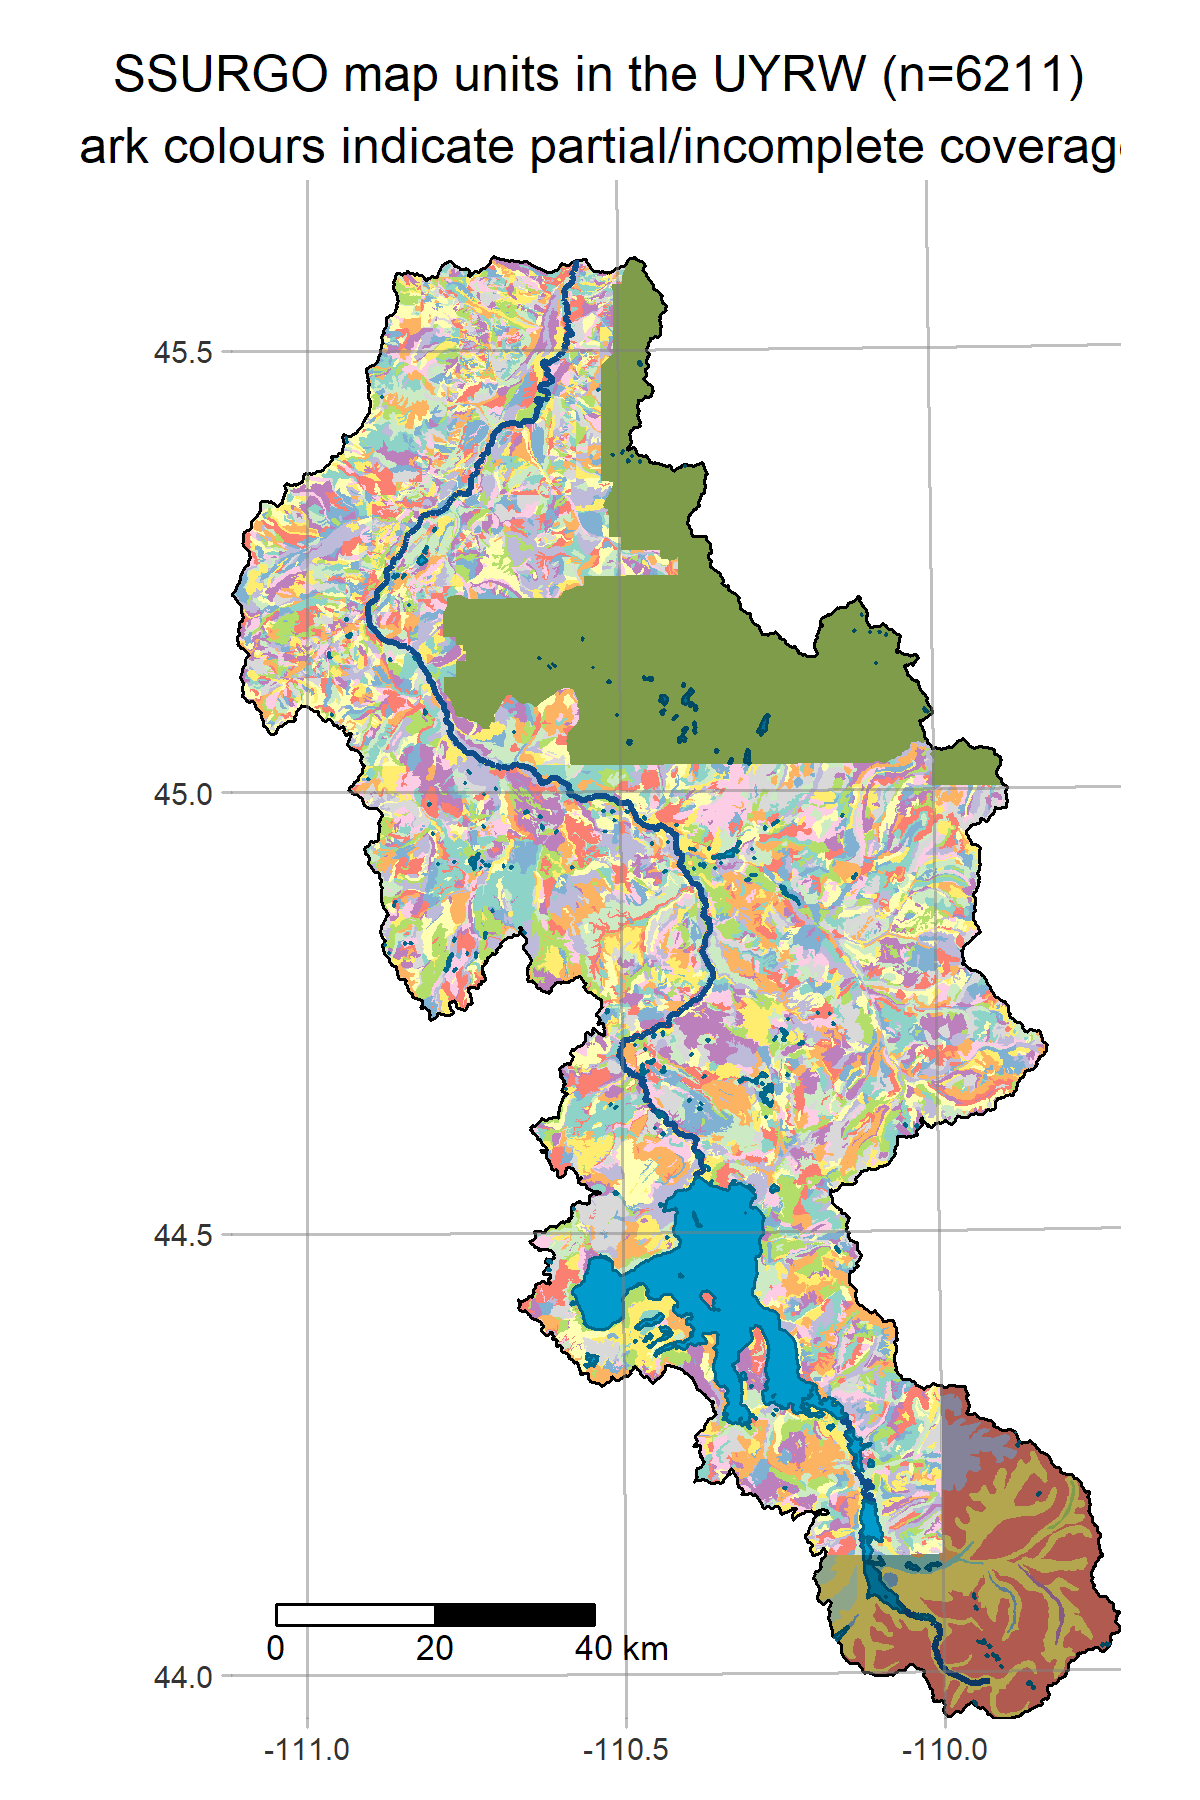
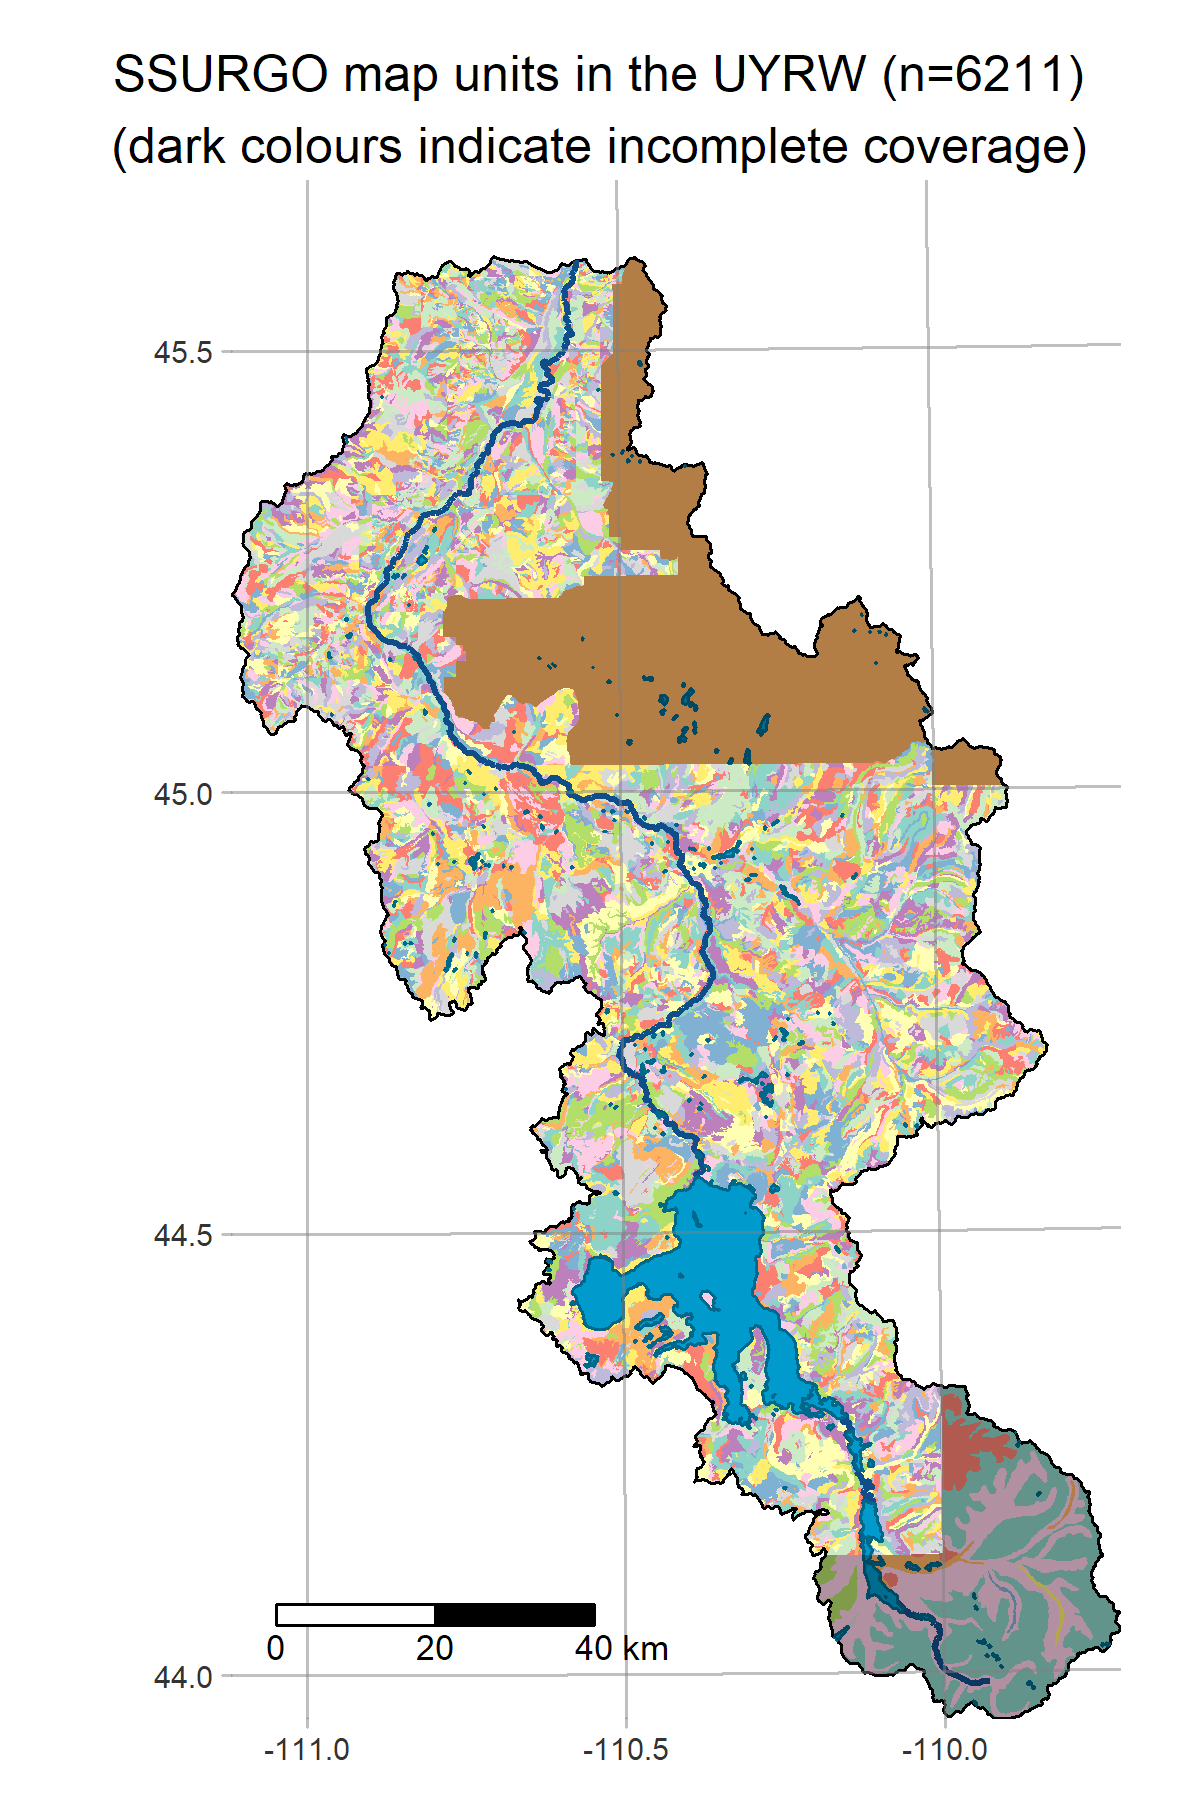
shortened subtitle to fit margins

Changed region(s): [[0.185, 0.1244, 0.925, 0.9644], [0.0617, 0.0622, 0.925, 0.0933]]

diff --git a/markdown/get_soils.md b/markdown/get_soils.md
@@ -6,7 +6,7 @@ August 28, 2020
 **MITACS UYRW project**
 
 **get\_soils**: download NRCS SSURGO data and warp to our reference
-coordinate system (work in progress)
+coordinate system
 
 [get\_basins.R](https://github.com/deankoch/UYRW_data/blob/master/markdown/get_basins.md)
 and
@@ -299,6 +299,7 @@ if(!file.exists(here(my_metadata('get_soils')['img_soils', 'file'])))
   # define a title and subtitle
   tmap.tstr = paste0('SSURGO map units in the UYRW (n=', nrow(sdm.sf), ')')
   tmap.tstr.sub ='(dark colours indicate partial/incomplete coverage)'
+  tmap.tstr.sub ='(dark colours indicate incomplete coverage)'
   
   # prepare the plot grob
   tmap.soils = tm_shape(sdm.sf) +
